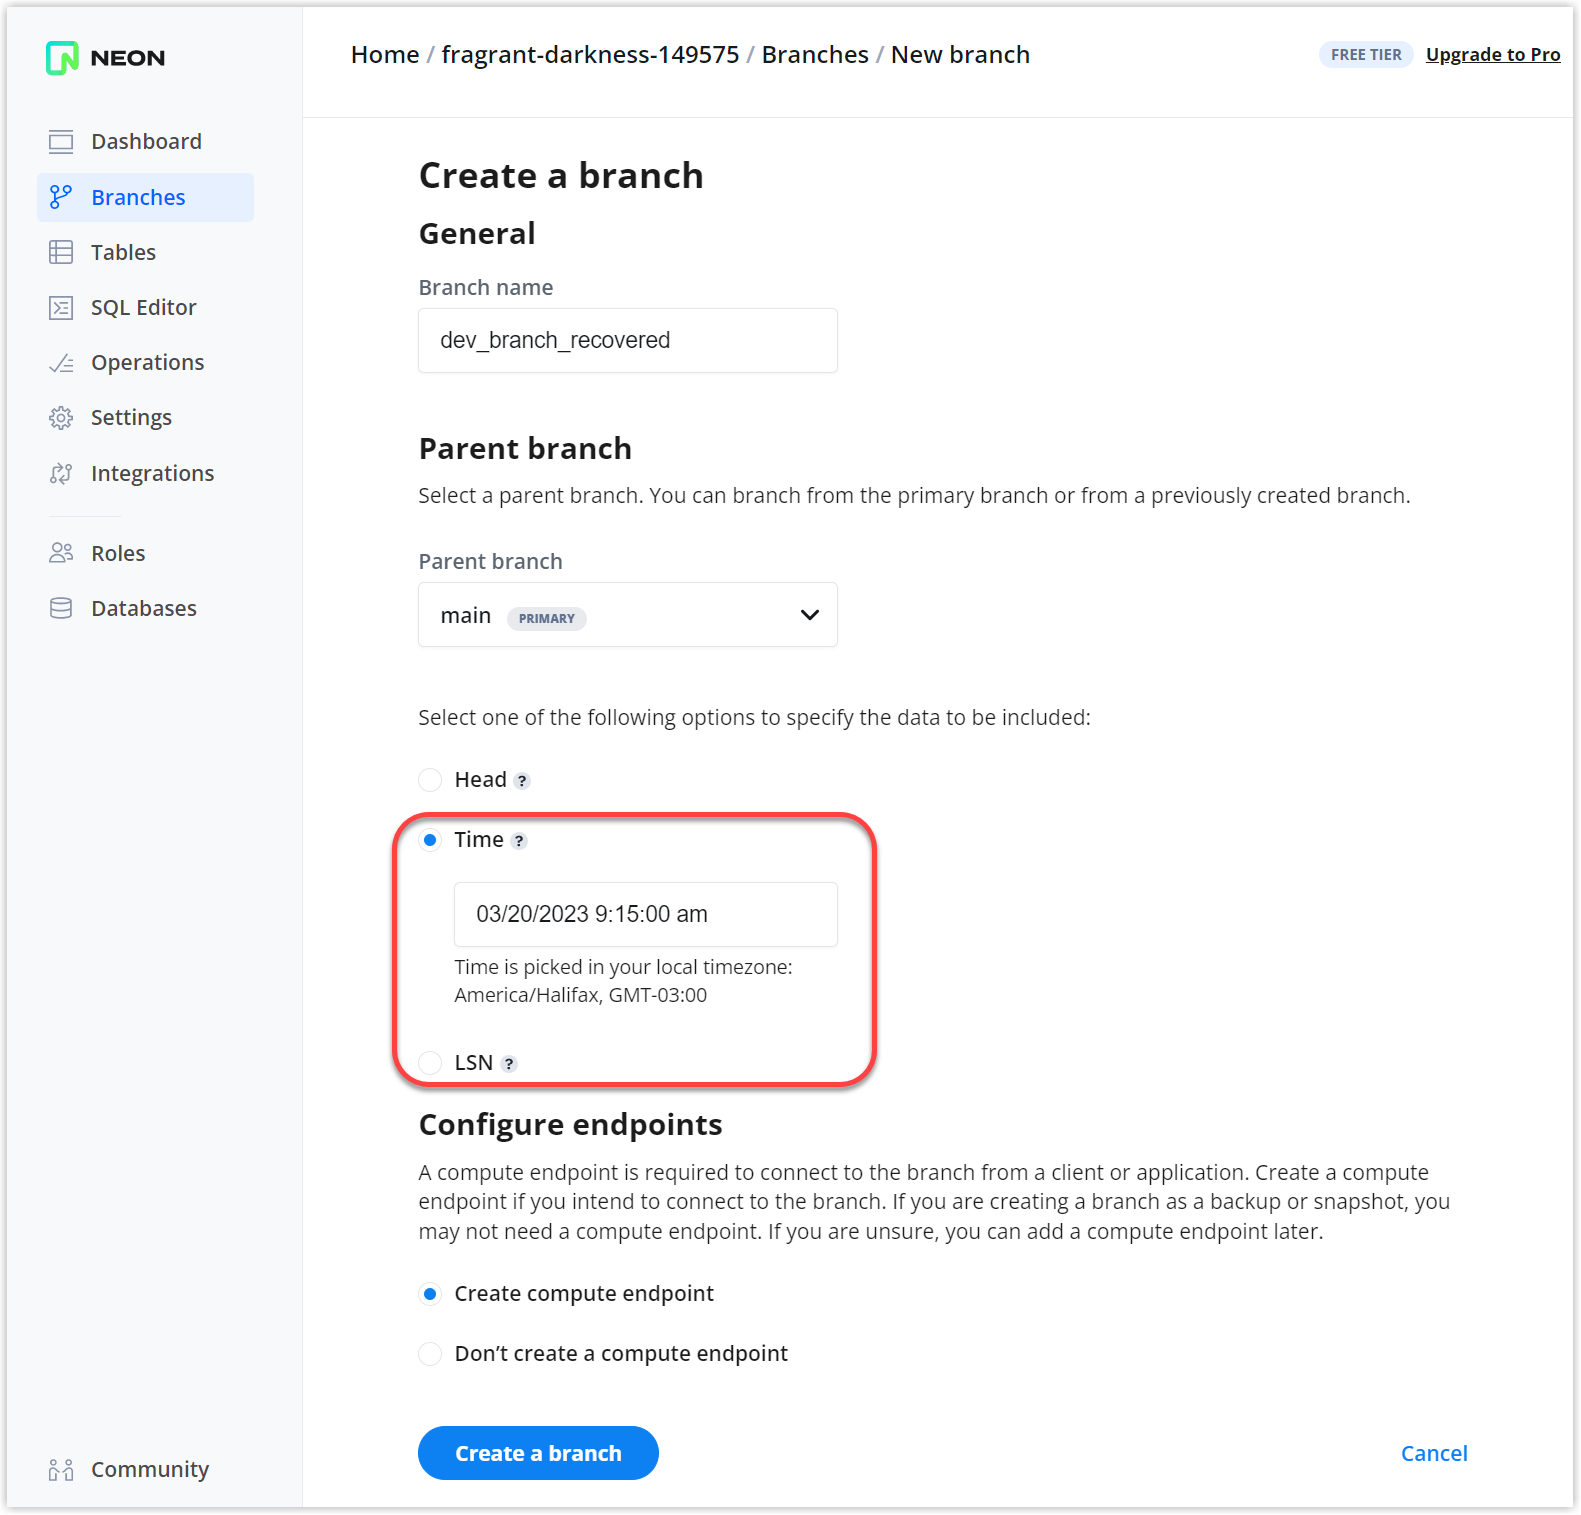
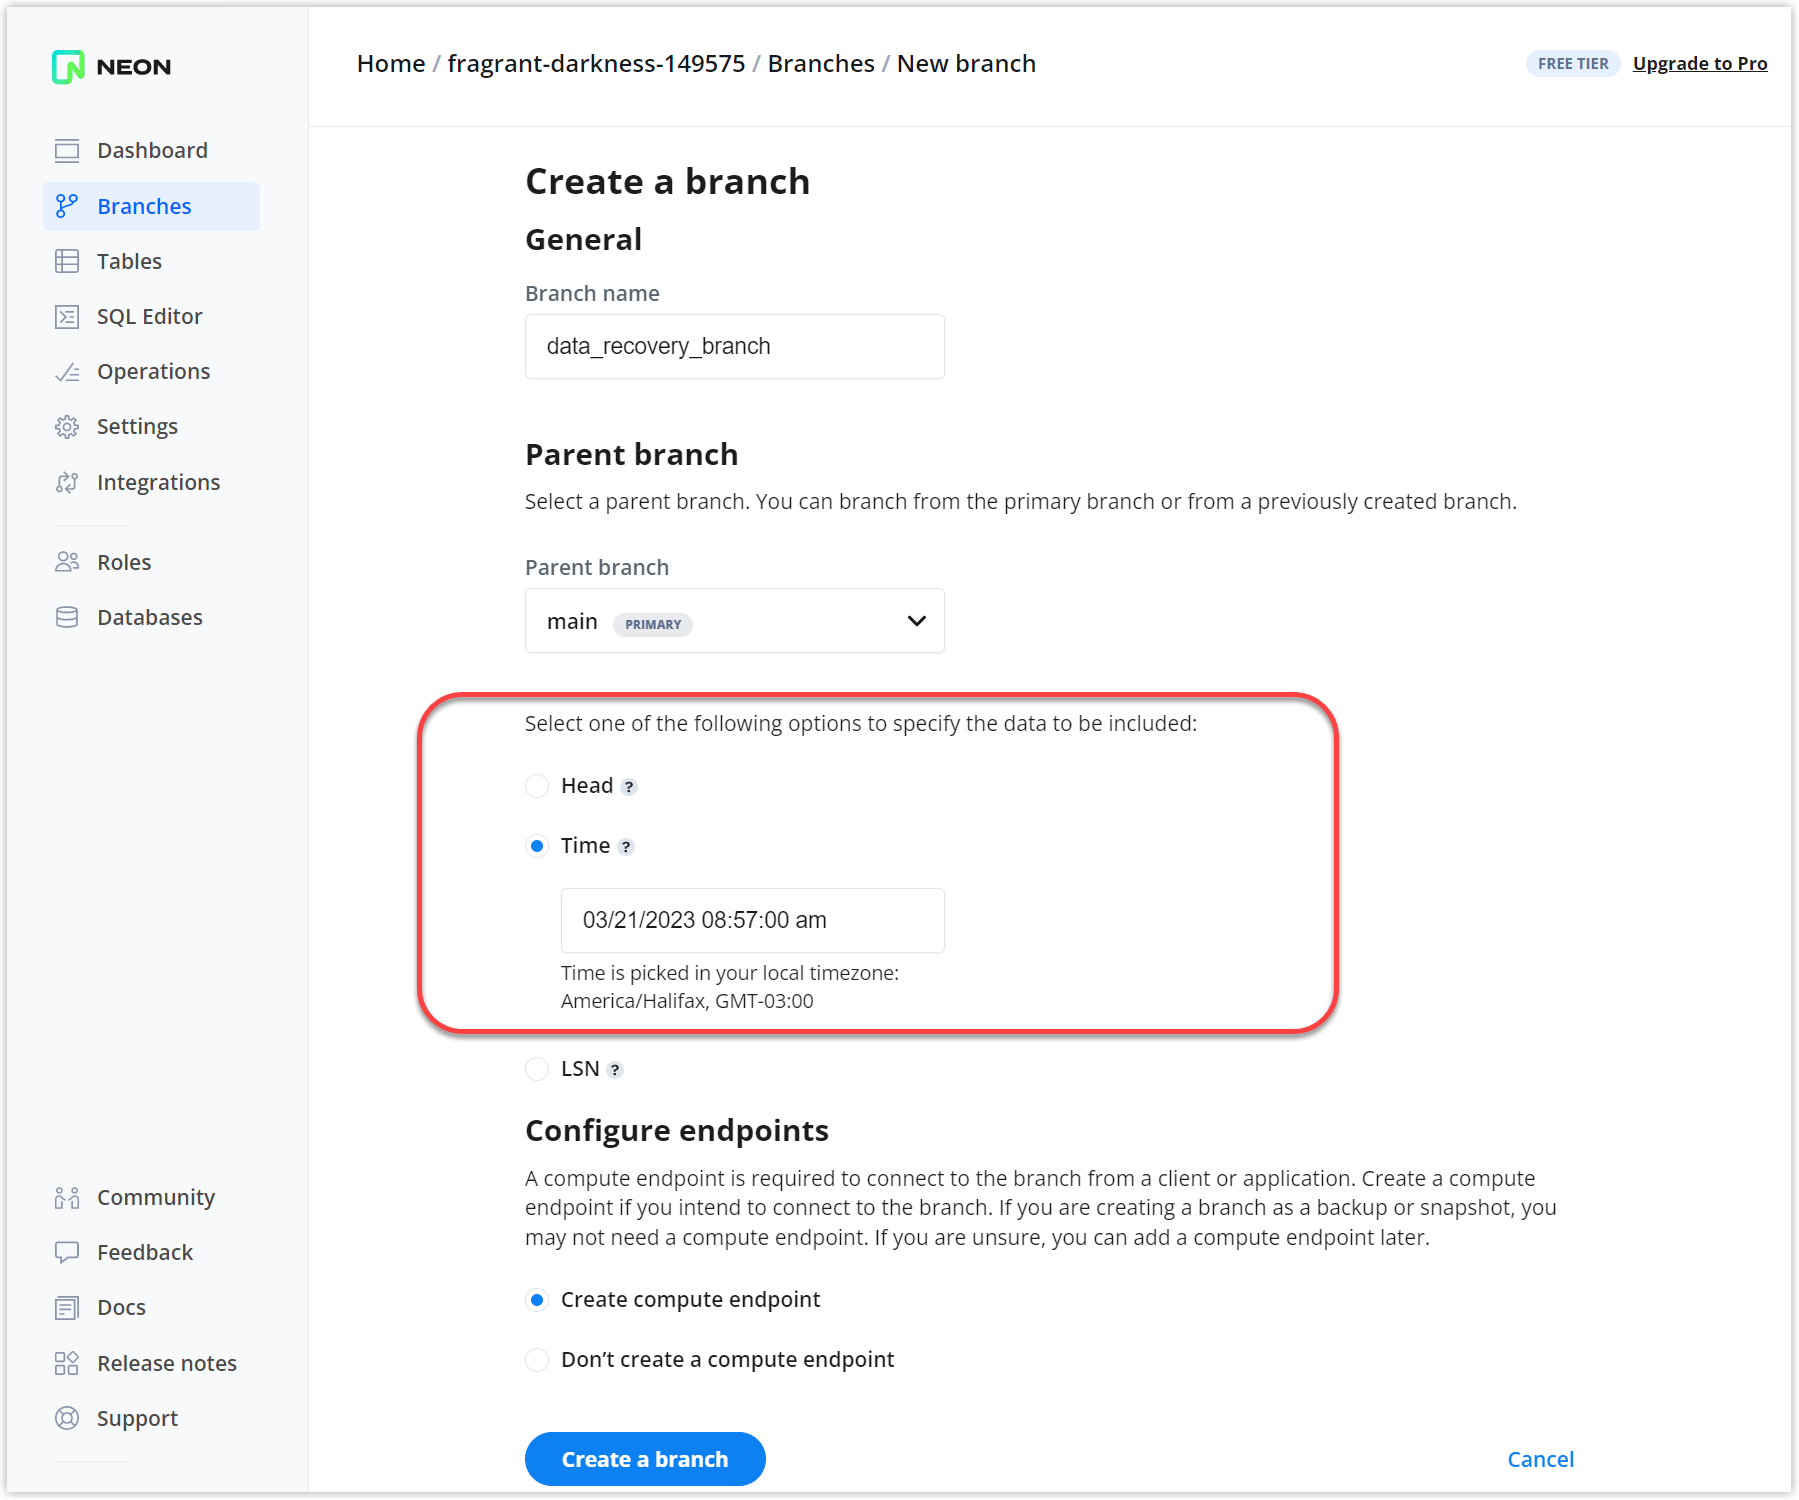
Revisions

diff --git a/content/docs/tutorial/data-recovery-with-branching.md b/content/docs/tutorial/data-recovery-with-branching.md
@@ -24,7 +24,7 @@ HAVING COUNT(*) > 1;
  7  | Nitrogen    |            7 | N      |     2
 ```
 
-You write a query to remove the duplicate rows, but an error in your `DELETE` statement causes most of your data to be deleted.
+You decide to write a query to remove the duplicate rows, but an error in your `DELETE` statement causes most of your data to be deleted.
 
 ```sql
 DELETE FROM elements
@@ -61,7 +61,7 @@ With Neon, you can recover from a data loss scenario like this very easily.
 
 ## Recover lost data
 
-You can use Neon branching to recover your lost data in seconds. The only requirement is that you know the point in time to recover to. Since you ran the `DELETE` query from the Neon SQL Editor, you can check the  **History** for the date and time you ran the problematic query.
+You can use Neon branching to recover lost data in seconds. The only requirement is that you know the point in time to recover to. Since you ran the `DELETE` query from the Neon SQL Editor, you can check the  **History** for the date and time you ran the problematic query.
 
 ![Find query time](/docs/get-started-with-neon/delete_query_time.png)
 
@@ -72,7 +72,7 @@ Now that you know when the data loss occurred, you can restore your data to a po
 1. Click **New Branch** to open the branch creation dialog.
 1. Enter a name for the branch.
 1. Select the parent branch. The data loss occurred on your project's [primary branch](/docs/reference/glossary/#primary-branch) (`main`), so select that one.
-1. Select the **Time** option to create a branch with data up to a specific date and time. You determined that the data loss occurred on March 20, 2023 at 8:58am, so you set it to the same date but at 8:57am, just before you ran the `DELETE` query.
+1. Select the **Time** option to create a branch with data up to a specific date and time. You determined that the data loss occurred on March 20, 2023 at 8:58am, so you set it to 8:57am, just before you ran the `DELETE` query.
 ![Create a point in time branch](/docs/get-started-with-neon/create_branch_time.png)
 1. Click **Create Branch** to create your branch. You should see a message similar to the following with the connection details for your new branch.
 
@@ -94,8 +94,10 @@ You should see the data as it existed before you ran the problematic `DELETE` qu
 
 What have you seen in this example?
 
-To recover the data, you used Neon's powerful database branching feature to create a branch from a past point in time. Neon keeps a 7-day history by default, which makes recovery scenarios like this very easy. But this was a simple example. More serious data loss scenarios can be addressed just as easily using Neon's database branching feature, as was the case for this Neon user:
+To recover the data, you used Neon's database branching feature to create a branch from a past point in time. Neon keeps a 7-day history by default, which makes recovery scenarios like this very easy. But this was a simple example. More serious data loss scenarios can be addressed just as easily using Neon's database branching feature, as was the case for this Neon user:
 
 ![Branches page](/docs/get-started-with-neon/data_recovery_twitter.png)
 
-Neon also supports creating branches from **Head** (the most up-to-date state of the database) or from an **LSN** (Log Sequence Number), which is a unique identifier that is assigned to each transaction in the database. To learn more about Neon's branching feature, see [Branching](/docs/introduction/branching).
+Neon also supports creating branches from **Head** (the most up-to-date state of the database) or from an **LSN** (Log Sequence Number), which is a unique identifier that is assigned to each transaction in the database. 
+
+To learn more about Neon's branching feature and the workflows it supports, see [Branching](/docs/introduction/branching).
